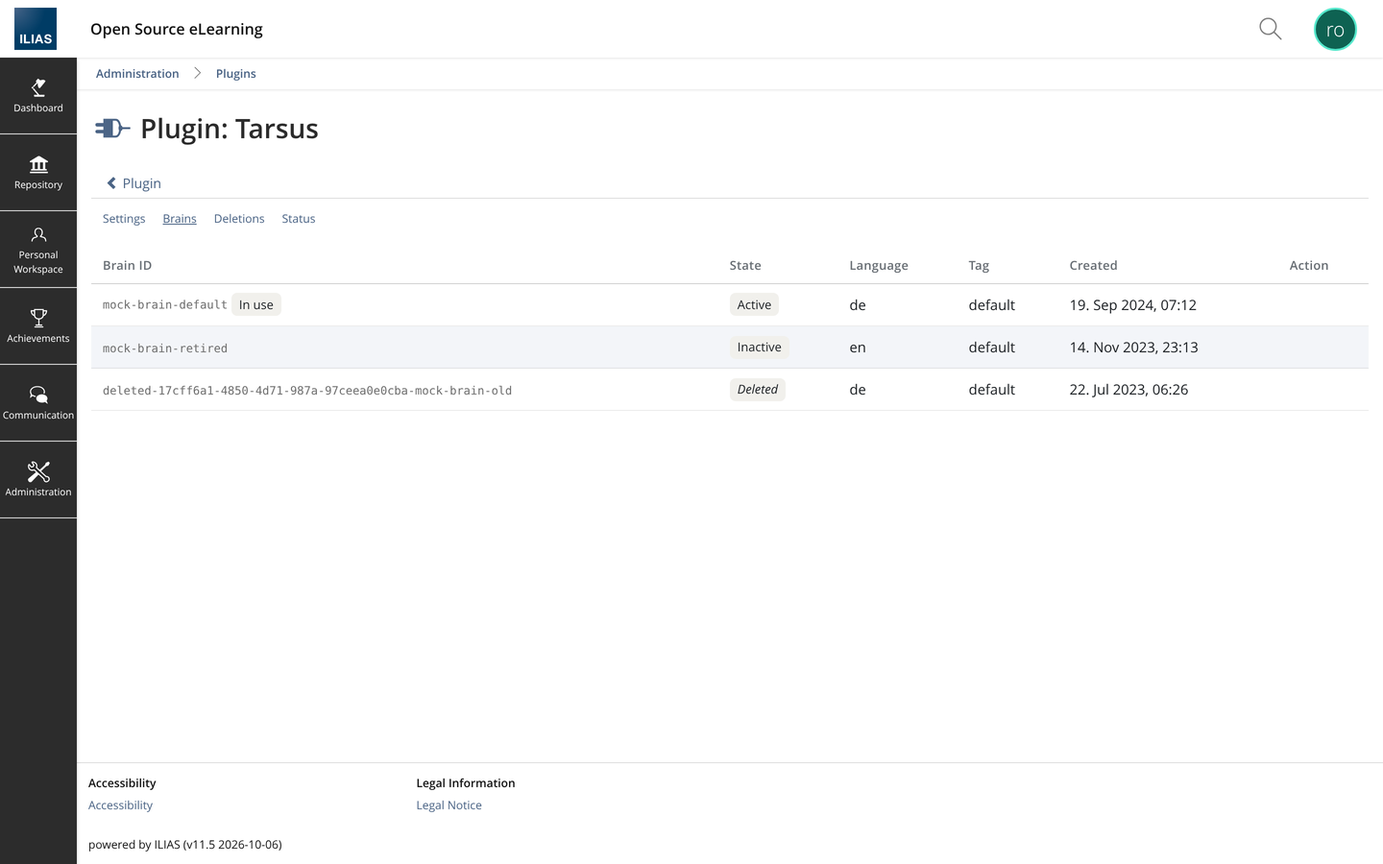
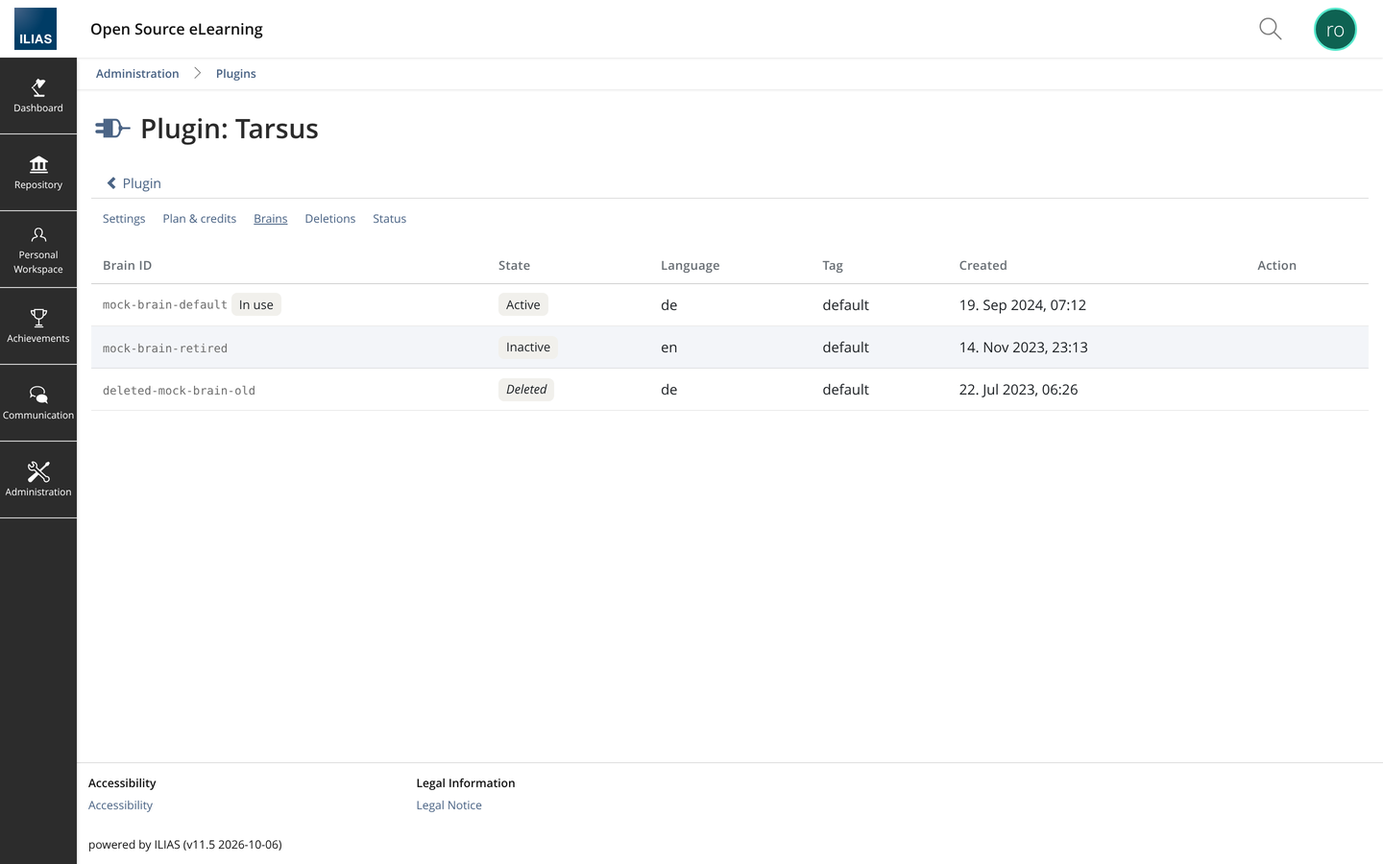
Rework the README around the Tarsus visuals and videos
Hero and feature sections with Tarsus' own product images, the ILIAS
screenshots per role, explainer videos from the Tarsus channel, a
"Getting access" section (API key and brain ID on request, free trial,
on-premise deployment), privacy notes from Tarsus' FAQ, and thanks to
Fred Neumann, Martin Studer and Lars Egger.

Also: the mock brain names carry no id-like segments any more, the HTTP
client's docblock no longer names the brain vendor, and the Brains
screenshot was retaken.

Claude-Session: https://claude.ai/code/session_01EvVV1AWhsm9UeUFLZev794

diff --git a/src/Client/MockClient.php b/src/Client/MockClient.php
@@ -148,7 +148,7 @@ class MockClient implements ClientInterface
                 'timecreated' => 1700000000,
             ],
             [
-                'brainid' => 'deleted-17cff6a1-4850-4d71-987a-97ceea0e0cba-mock-brain-old',
+                'brainid' => 'deleted-mock-brain-old',
                 'active' => false,
                 'language' => 'de',
                 'tag' => 'default',

diff --git a/src/Client/HttpClient.php b/src/Client/HttpClient.php
@@ -7,7 +7,7 @@ use TarsusIlias\Material\BitType;
 use TarsusIlias\Support\Ilias;
 
 /**
- * Real Tarsus (Flexudy Brain) HTTP client.
+ * Real Tarsus brain HTTP client.
  *
  * Speaks the /api/v1/brain/access/* surface (track/{text,url,document,
  * audio,video}-bits, untrack/multiple-resources, untrack/multiple-assets,

diff --git a/README.md b/README.md
@@ -1,36 +1,83 @@
+<p align="center">
+  <a href="https://tarsus.ai"><img src="https://framerusercontent.com/images/bhXmm51vAp3AcBXb7St6VJakI4.webp?scale-down-to=2048" alt="The Tarsus AI learning coach: a course with learning goals, explanation cards, exercises and progress" width="920"></a>
+</p>
+
 <h1 align="center">Tarsus for ILIAS</h1>
 
 <p align="center">
-  An AI learning companion inside every ILIAS course – grounded in the course's own material.<br>
-  Learners <b>ask</b>, <b>test</b> and <b>build</b> their knowledge; teachers choose the material and follow the progress.
+  <b>The Tarsus AI learning coach inside every ILIAS course.</b><br>
+  Explanations, graphics, simulations and exercises – generated in the dialogue, from your own course material only.<br>
+  Learners <b>build</b>, <b>test</b> and <b>ask</b>; teachers choose the material and follow the progress.
 </p>
 
 <p align="center">
-  <a href="https://github.com/tarsus-ai/ilias-ai-trainer/releases/latest"><img alt="Latest release" src="https://img.shields.io/github/v/release/tarsus-ai/ilias-ai-trainer?label=release"></a>
+  <a href="https://github.com/tarsus-ai/ilias-ai-trainer/releases/latest"><img alt="Latest release" src="https://img.shields.io/github/v/release/tarsus-ai/ilias-ai-trainer?label=release&color=1f4e79"></a>
   <img alt="ILIAS 9, 10 and 11" src="https://img.shields.io/badge/ILIAS-9%20%7C%2010%20%7C%2011-1f4e79">
-  <img alt="Plugin slot" src="https://img.shields.io/badge/slot-RepositoryObject-555">
+  <img alt="Languages" src="https://img.shields.io/badge/UI-English%20%7C%20Deutsch-555">
   <a href="LICENSE"><img alt="Licence GPL-3.0-or-later" src="https://img.shields.io/badge/licence-GPL--3.0--or--later-2e7d32"></a>
 </p>
 
 <p align="center">
-  <img src="docs/screenshots/25_ask_interactive.png" alt="A learner asks a question and receives an interactive answer page" width="900">
+  <a href="https://tarsus.ai">Website</a> ·
+  <a href="https://tarsus.ai/funktionen">Features</a> ·
+  <a href="#getting-access">Get access</a> ·
+  <a href="https://github.com/tarsus-ai/ilias-ai-trainer/releases">Download</a> ·
+  <a href="#installation">Install</a> ·
+  <a href="#watch">Videos</a> ·
+  <a href="https://www.youtube.com/@tarsus-ai">YouTube</a>
 </p>
 
-Tarsus for ILIAS is a repository-object plugin (`RepositoryObject/Tarsus`, object type `xtar`) that connects an ILIAS installation to a [Tarsus](https://tarsus.ai) brain. A *Tarsus* object lives in a course or group like any other object, uses only the material the teacher has indexed and included, and reports back into ILIAS' learning progress. The conversations run in the brain; ILIAS keeps only the figures it needs.
+---
 
-**Contents** · [Features](#features) · [Requirements](#requirements) · [Installation](#installation) · [Updating](#updating) · [Configuration](#configuration) · [Plans, credits and the monthly limit](#plans-credits-and-the-monthly-limit) · [Interaction types](#interaction-types) · [Score and progress](#score-and-progress) · [Brain API](#brain-api) · [Data and privacy](#data-and-privacy) · [Development](#development) · [Licence](#licence)
+Tarsus is an AI learning coach for training providers, companies and universities. It explains, lets learners practise and answers their questions – always from the organisation's own documents, at the right level for each person. **Tarsus for ILIAS** brings this coach into ILIAS as a repository object (`RepositoryObject/Tarsus`, type `xtar`): a *Tarsus* object lives in a course or group like any other object, uses only the material the teacher has indexed and included, and reports back into ILIAS' learning progress. The conversations run in the Tarsus brain; ILIAS keeps only the figures it needs.
 
-## Features
+> This repository contains **no API keys and no brain IDs**. The plugin ships in mock mode; the credentials for a real brain are entered in ILIAS' plugin configuration and stay in the ILIAS database – the API key is never sent to a browser. See [Getting access](#getting-access).
+
+**Contents** · [What the coach does](#what-the-coach-does) · [Inside ILIAS](#inside-ilias) · [Watch](#watch) · [Getting access](#getting-access) · [Requirements](#requirements) · [Installation](#installation) · [Updating](#updating) · [Configuration](#configuration) · [Plans, credits and the monthly limit](#plans-credits-and-the-monthly-limit) · [Interaction types](#interaction-types) · [Score and progress](#score-and-progress) · [Data and privacy](#data-and-privacy) · [Development](#development) · [Acknowledgements](#acknowledgements) · [Licence](#licence)
+
+## What the coach does
 
 ### Three ways to learn
 
-| Ask a question | Test knowledge | Build knowledge |
+| Build knowledge | Test knowledge | Ask a question |
 |:--:|:--:|:--:|
-| ![Ask a question](docs/screenshots/03_ask_mode.png) | ![Test knowledge](docs/screenshots/05_test_feedback.png) | ![Build knowledge](docs/screenshots/06_build_mode.png) |
-| A chat grounded in the included course material, with formulas and tables rendered. | Practice questions of several kinds – single choice, true/false, open questions, rule of three, spreadsheet calculation – with immediate feedback, experience points and a progress bar. | Learning units as slides with a check question, read aloud on request. *Ask about this* sends any slide or question to the chat. |
+| <img src="https://framerusercontent.com/images/s0fmuHNzzQzugFWdZ64BNRzBZVE.webp?scale-down-to=1024" alt="Explanation card built from the course material" width="400"> | <img src="https://framerusercontent.com/images/hgagwUKE5rL19zOgU4zCXHDL8wk.webp?scale-down-to=1024" alt="Spreadsheet task with line-by-line feedback" width="400"> | <img src="https://framerusercontent.com/images/Gg6PdLZrXoksmnEkebq2iomzcCM.webp?scale-down-to=1024" alt="The coach answers a question and shows the calculation path" width="400"> |
+| Explanation cards, one idea at a time, with examples for the target group and optional narration. A check question closes each unit. | Exercises with feedback that moves learners on: single choice, true/false, open questions, rule of three, spreadsheet calculations – with experience points and a progress bar. | Questions in the learner's own words, by text or voice, answered from the included material – with the calculation path when it is a task. |
 
-- **Interactive answers.** With the *AI-driven* interaction type the brain may answer with small HTML pages – animations, simulations, sliders, plots. They run in a sandboxed frame (scripts allowed, no access to ILIAS, its cookies or the page), are sized automatically, can be enlarged and stay in the history.
-- **Help where it is needed.** A help button on every screen opens the support links and videos the administrator configured; YouTube and Vimeo play inline.
+### Graphics, simulations and 3D models on demand
+
+| | | |
+|:--:|:--:|:--:|
+| <img src="https://framerusercontent.com/images/Cosivt9X6HrNKgVnRe4uAuwSXI.webp?scale-down-to=1024" alt="Rotatable 3D cylinder with diameter and height" width="400"> | <img src="https://framerusercontent.com/images/uZ93hce6VN7ddmDdqNunRz8mg.webp?scale-down-to=1024" alt="Interactive characteristic curve: a slider moves the operating point" width="400"> | <img src="https://framerusercontent.com/images/XuhQqOxDZ7REyDl40HnvMnVjpms.webp?scale-down-to=1024" alt="Decision tree: what does the body orbit?" width="400"> |
+| **3D models** that learners can turn and measure. | **Simulations** where a slider changes the physics and the result follows. | **Diagrams and animations** drawn for the question at hand. |
+
+With the *AI-driven* interaction type the coach answers inside ILIAS with such pages – small HTML programs rendered in a sandboxed frame. See [Interaction types](#interaction-types).
+
+### Many task formats
+
+| | | | |
+|:--:|:--:|:--:|:--:|
+| <img src="https://framerusercontent.com/images/sdtCvG7M3Q59Nl80mwa2yOOaMTY.webp?scale-down-to=1024" alt="Single-choice question with explanation" width="300"> | <img src="https://framerusercontent.com/images/du1FTrsuwAElUTZUEEC5v1euI.webp?scale-down-to=1024" alt="Open question with partial credit and feedback on what is missing" width="300"> | <img src="https://framerusercontent.com/images/uNSphTDFSP6R85PZw7wZVvGQK0.webp?scale-down-to=1024" alt="True-or-false task with a check button" width="300"> | <img src="https://framerusercontent.com/images/rmkJPlhI2NqsHY2Xt1UFnddNeoU.webp?scale-down-to=1024" alt="Calculation chain with two correctly computed values" width="300"> |
+| Single choice with an explanation | Open questions with partial credit | True or false | Calculation chains and spreadsheets |
+
+### The right level for every person
+
+The coach adapts to the **DQR level**, the **taxonomy stage** (Anderson & Krathwohl), the **learning pace** and the **target group** that the teacher sets per object. Which task comes next is decided from the learner's answers – the same ideas as in item response theory – so strong learners are stretched and nobody is left behind. Read more in the Tarsus [Praxiswissen](https://tarsus.ai/praxiswissen) articles and watch the explainers under [Watch](#watch).
+
+## Inside ILIAS
+
+<p align="center">
+  <img src="docs/screenshots/25_ask_interactive.png" alt="A learner asks a question in ILIAS and receives an interactive answer page" width="900">
+</p>
+
+### For learners
+
+| Build knowledge | Test knowledge | Ask a question |
+|:--:|:--:|:--:|
+| ![Build knowledge in ILIAS](docs/screenshots/06_build_mode.png) | ![Test knowledge in ILIAS](docs/screenshots/05_test_feedback.png) | ![Ask a question in ILIAS](docs/screenshots/03_ask_mode.png) |
+| Learning goals, then units as slides with a check question; read aloud on request. *Ask about this* sends any slide to the chat. | Practice questions with immediate feedback, experience points and progress. | A chat grounded in the included material, with formulas and tables rendered – and interactive pages on AI-driven objects. |
+
+- A **help button** on every screen opens the support links and videos the administrator configured; YouTube and Vimeo play inline.
 - **English and German**, following the user's interface language.
 
 ### For teachers
@@ -38,7 +85,7 @@ Tarsus for ILIAS is a repository-object plugin (`RepositoryObject/Tarsus`, objec
 | Materials | Learners |
 |:--:|:--:|
 | ![Materials tab](docs/screenshots/09_materials.png) | ![Learners tab](docs/screenshots/10_learners.png) |
-| Index files, web links, content pages, wikis, ILIAS learning modules and glossaries into the brain and decide per object which of them the assistant may use. | Progress, experience points, learning units and score per learner, with a CSV export. The ILIAS learning progress of the object follows the same figures. |
+| Index files, web links, content pages, wikis, ILIAS learning modules and glossaries into the brain and decide per object which of them the coach may use. | Progress, experience points, learning units and score per learner, with a CSV export. ILIAS' own learning progress follows the same figures. |
 
 | Analytics | Settings |
 |:--:|:--:|
@@ -68,17 +115,56 @@ Tarsus for ILIAS is a repository-object plugin (`RepositoryObject/Tarsus`, objec
 | ![Discharge curve](docs/screenshots/26_ask_interactive_curve.png) Interactive answer with a plot | ![Help panel](docs/screenshots/29_help_panel.png) Help panel with a support video |
 | ![Object settings](docs/screenshots/11_settings.png) Object settings | ![Locked by plan](docs/screenshots/32_settings_locked_by_plan.png) Options locked by the plan |
 | ![Limit banner](docs/screenshots/30_limit_banner_teacher.png) Teacher banner when the limit is reached | ![Limit for learners](docs/screenshots/31_limit_learner.png) What learners see when the limit is reached |
-| ![Confirm lowering](docs/screenshots/21_admin_limit_confirm.png) Confirmation when lowering the limit | ![Plugin settings](docs/screenshots/13_admin_settings.png) Plugin settings |
-| ![Brains](docs/screenshots/14_admin_brains.png) Brains reachable with the API key | ![Status](docs/screenshots/15_admin_status.png) Status page |
+| ![Confirm lowering](docs/screenshots/21_admin_limit_confirm.png) Confirmation when lowering the limit | ![Plugin settings](docs/screenshots/13_admin_settings.png) Plugin settings (mock values) |
+| ![Brains](docs/screenshots/14_admin_brains.png) Brains reachable with the API key (mock values) | ![Status](docs/screenshots/15_admin_status.png) Status page |
 | ![Info](docs/screenshots/12_info.png) Info screen | ![German](docs/screenshots/16_german.png) German interface |
 | ![Course listing](docs/screenshots/01_course_listing.png) The object in a course | |
 
 </details>
 
+## Watch
+
+Explainers from the [Tarsus YouTube channel](https://www.youtube.com/@tarsus-ai/videos) (German):
+
+<table>
+  <tr>
+    <td align="center" width="33%">
+      <a href="https://www.youtube.com/watch?v=JuZLVYBUBLA"><img src="https://img.youtube.com/vi/JuZLVYBUBLA/hqdefault.jpg" alt="Tarsus | So funktioniert die Tarsus Architektur" width="300"></a><br>
+      <b>How the Tarsus architecture works</b><br><sub>What happens between a learner's question and the coach's answer</sub>
+    </td>
+    <td align="center" width="33%">
+      <a href="https://www.youtube.com/watch?v=kXTSVUBS9GQ"><img src="https://img.youtube.com/vi/kXTSVUBS9GQ/hqdefault.jpg" alt="E-Learning vs. Rapid Learning" width="300"></a><br>
+      <b>E-learning vs. rapid learning</b><br><sub>Why generating the course in the dialogue beats producing it up front</sub>
+    </td>
+    <td align="center" width="33%">
+      <a href="https://www.youtube.com/watch?v=NSif7VgL_w4"><img src="https://img.youtube.com/vi/NSif7VgL_w4/hqdefault.jpg" alt="Tarsus KI-Lerncoach | Bei BZEcom mit Daniel Hobein" width="300"></a><br>
+      <b>Tarsus in practice</b><br><sub>The AI learning coach at BZEcom, with Daniel Hobein</sub>
+    </td>
+  </tr>
+</table>
+
+The ideas behind the coach, explained in short articles with videos:
+
+- **[Item response theory with AI](https://tarsus.ai/praxiswissen/item-response-theory)** – why the coach weighs ability and task difficulty instead of counting right answers, and how that picks the next task.
+- **[Taxonomies in e-learning](https://tarsus.ai/praxiswissen/dihk-taxonomie-stufen)** – thinking levels and knowledge types after Anderson & Krathwohl, and the "knowledge cube" the coach uses to see strengths, gaps and learning paths.
+- **[The learning rate](https://tarsus.ai/praxiswissen/lernrate-adaptives-lernen)** – how adaptive learning updates a learner's level after each answer, and why surprising answers count more.
+- **[DQR levels](https://tarsus.ai/praxiswissen/dqr-niveaus)** · **[Avoiding AI hallucinations](https://tarsus.ai/praxiswissen/ki-halluzinationen)** · **[Exam simulations](https://tarsus.ai/praxiswissen/pruefungssimulation-erstellen)** · all articles: [Praxiswissen](https://tarsus.ai/praxiswissen)
+
+## Getting access
+
+The plugin needs a Tarsus brain: the API base URL, an **API key** and a **brain ID**. These are issued by Tarsus for your organisation – they are not in this repository and not in any release.
+
+- **Request access:** write to [info@tarsus.ai](mailto:info@tarsus.ai?subject=Tarsus%20for%20ILIAS) or [book an introductory call](https://outlook.office.com/book/Erstgespraech@tarsus.ai/). More about the product on [tarsus.ai](https://tarsus.ai).
+- **Try the coach first:** a free account on [zero.tarsus.ai](https://zero.tarsus.ai/) lets you upload your own documents and talk to the coach before anything is installed.
+- **On-premise:** Tarsus can also deploy the entire Tarsus stack on your own infrastructure if your organisation requires it. [Talk to us](mailto:info@tarsus.ai?subject=Tarsus%20on-premise).
+- **Plans:** Build Knowledge, Knowledge Test, Ask Question or Pay as you grow – see [Plans, credits and the monthly limit](#plans-credits-and-the-monthly-limit).
+
+Until a brain is configured the plugin runs in **mock mode** with simulated answers, so administrators and teachers can explore every screen.
+
 ## Requirements
 
 - ILIAS **9**, **10** or **11** (tested on 9.24, 10.12 and 11.5), with the PHP version your ILIAS release requires and the `curl` extension ILIAS needs anyway.
-- A Tarsus brain: the API base URL, an API key and a brain the key may use. Without one the plugin runs in mock mode.
+- A Tarsus brain ([Getting access](#getting-access)) – or mock mode for a look around.
 - ILIAS' cron job (recommended – see below).
 
 ## Installation
@@ -127,7 +213,7 @@ Database updates run during the update; settings, material indexes and learner f
 
 | Tab | What it holds |
 |---|---|
-| **Settings** | Connection to the brain (base URL, API key), mock mode, the assistant's name and avatar, guardrails (kill switch, rate limit), and the help links shown behind the help button – one `Title \| URL` per line. |
+| **Settings** | Connection to the brain (base URL, API key, brain ID), mock mode, the coach's name and avatar, guardrails (kill switch, rate limit), and the help links shown behind the help button – one `Title \| URL` per line. |
 | **Plan & credits** | The customer's subscription, included credits and price, the monthly credit limit and the recipients of the warnings (see below). |
 | **Brains** | The brains the API key can reach; activate the one this installation should use. |
 | **Deletions** | Material withdrawals the brain has not confirmed yet. |
@@ -137,7 +223,7 @@ A banner on these pages and in the teachers' views shows the state of the monthl
 
 ## Plans, credits and the monthly limit
 
-The customer's Tarsus subscription is recorded on the *Plan & credits* tab. Plans, credits and prices are agreed with Tarsus and lern.link; the figures are editable for custom agreements.
+The customer's Tarsus subscription is recorded on the *Plan & credits* tab. Plans, credits and prices are agreed with Tarsus (and lern.link as integration partner); the figures are editable for custom agreements.
 
 | Plan | Modes | Narration | AI-driven interaction | Included credits |
 |---|---|:--:|:--:|---|
@@ -155,8 +241,8 @@ The customer's Tarsus subscription is recorded on the *Plan & credits* tab. Plan
 
 Each object has an interaction type, sent to the brain as `interaction_type` with every generate call:
 
-- **trainer-driven** – the brain answers with text, formulas, tables and the usual question widgets.
-- **ai-driven** – the brain may additionally answer with HTML pages: animations, simulations, small tools (a rotating cylinder whose volume follows the sliders, a speed-from-distance-and-time experiment, a capacitor discharge curve with a marker, ...). Both chat answers and learning units may be pages.
+- **trainer-driven** – the coach answers with text, formulas, tables and the usual question widgets.
+- **ai-driven** – the coach may additionally answer with HTML pages: animations, simulations, small tools (a rotating cylinder whose volume follows the sliders, a speed-from-distance-and-time experiment, a capacitor discharge curve with a marker, …). Both chat answers and learning units may be pages.
 
 Pages are rendered in an `<iframe sandbox="allow-scripts allow-forms allow-pointer-lock">` with `srcdoc`, so they can run their scripts but cannot reach ILIAS, its cookies or the surrounding page. A small reporter inside the frame sizes it to its content; an *Enlarge* button opens the page in a dialog. AI-driven interaction is available on the Build Knowledge and Pay as you grow plans.
 
@@ -173,21 +259,13 @@ Which figure counts as the score and which as the progress depends on the modes 
 
 The *Learners* tab, the CSV export and ILIAS' learning progress all use these rules; a learner counts as completed once the progress reaches the object's completion threshold. Figures are recomputed when the plan changes.
 
-## Brain API
-
-The plugin speaks to the brain over HTTPS with form-data requests carrying `api_key` and `brain_id` (reference: [Tarsus API documentation](https://documenter.getpostman.com/view/23991933/2s9YJXYQT2)):
-
-- `access/track/{text,url,document,audio,video}-bits`, `access/untrack/multiple-resources`, `access/untrack/multiple-assets`, `access/check/tracked-resources` – material indexing and withdrawal,
-- `awareness/list/memories`, `awareness/list/clone-voices`, `awareness/get/usage` – brains, voices and the month's AI credits,
-- `/api/t0/activity/generate/next/widgets`, `retrieve/next/widgets`, `evaluate/*-question/widget`, `generate/audio/explainer/stack`, `reset/user/widgets` – the learning activity.
-
-Every call passes the guardrail pipeline: kill switch → circuit breaker (opens after five consecutive failures for five minutes) → monthly credit limit → rate limit. Transport and protocol failures are turned into a friendly message; nothing is retried blindly.
-
 ## Data and privacy
 
+- The plugin talks to the brain over HTTPS only; every call carries the installation's API key and brain ID and passes the guardrail pipeline (kill switch → circuit breaker, which opens after five consecutive failures for five minutes → monthly credit limit → rate limit). Transport and protocol failures are turned into a friendly message; nothing is retried blindly.
 - The plugin keeps its data in seven tables (`rep_robj_xtar_*`): plugin configuration (including the plan, the limit and the brain's usage figure), the settings of each object, the index map of the material sent to the brain, the inclusions per object, the latest figures per learner, a usage ledger (credits per operation, also behind the analytics) and the guardrail state. Uninstalling the plugin drops them.
 - Learners are sent to the brain under a **pseudonym** – an HMAC of the ILIAS user id with a secret generated at installation – together with their display name and interface language. The conversation itself lives in the brain. *Reset chat history* erases the learner's own conversation in the brain and the local figures.
 - Interactive pages from the brain run sandboxed (see above) and are never stored in ILIAS beyond the conversation history the brain returns.
+- The coach does not search the internet: it generates explanations and answers exclusively from the documents your organisation provides. Tarsus stores your content at Microsoft Azure in Germany, GDPR-compliant – and the entire stack can be deployed on-premise on request ([Getting access](#getting-access)).
 
 ## Development
 
@@ -206,16 +284,24 @@ src/                       namespace TarsusIlias
 sql/dbupdate.php           database steps
 templates/                 CSS, JavaScript, images and the mock mode's demo pages
 lang/                      ilias_en.lang, ilias_de.lang
-docs/screenshots/          the images in this README
+docs/screenshots/          the ILIAS screenshots in this README
 ```
 
-- **Mock mode** (default after installation) makes the whole UI usable without a brain: the mock client answers deterministically, including the interactive demo pages, and records credits like the real one, so plans, limits and analytics can be exercised locally.
+- **Mock mode** (default after installation) makes the whole UI usable without a brain: the mock client answers deterministically, including the interactive demo pages, and records credits like the real one, so plans, limits and analytics can be exercised locally. All mock brain names start with `mock-`.
 - The plugin is tested end to end with Playwright against ILIAS 9, 10 and 11: clean install from the release zip, update in place, permissions, all three modes, learning progress, copy, configuration pages, plan gating, the monthly limit and the cron job.
 - A version bump needs `composer du` before ILIAS offers **Update** in the plugin list.
 - **Releases** are published by the [Release workflow](.github/workflows/release.yml): bump `$version` in `plugin.php`, add the version's section to `CHANGELOG.md` and push to `main` – the workflow tags the commit, builds `Tarsus-ilias-plugin-<version>.zip` with `git archive` (repository-only files such as `docs/` are left out) and creates the GitHub release with the changelog section as notes.
 
 Issues and pull requests are welcome.
 
+## Acknowledgements
+
+Our thanks go to **Fred Neumann**, **Martin Studer** and **Lars Egger** for all the years of support in the ILIAS world – this plugin stands on what they built and shared.
+
+[lern.link GmbH](https://lern.link/) is Tarsus' integration partner for Moodle and ILIAS: lern.link installs the plugin for customers and records their plan and credits.
+
 ## Licence
 
-GPL-3.0-or-later – see [LICENSE](LICENSE). © 2026 lern.link GmbH.
+GPL-3.0-or-later – see [LICENSE](LICENSE). © 2026 lern.link GmbH. Tarsus is a product of Tarsus GmbH, [tarsus.ai](https://tarsus.ai).
+
+<p align="center"><sub>Our goal is to make high-quality education as accessible as Netflix.</sub></p>

diff --git a/CHANGELOG.md b/CHANGELOG.md
@@ -3,6 +3,10 @@
 All notable changes to the Tarsus plugin for ILIAS. The plugin follows
 [semantic versioning](https://semver.org/); the version is in `plugin.php`.
 
+## [Unreleased]
+
+- Mock mode: the sample brain names no longer contain id-like segments.
+
 ## [1.1.0] – 2026-11-06
 
 ### Added
